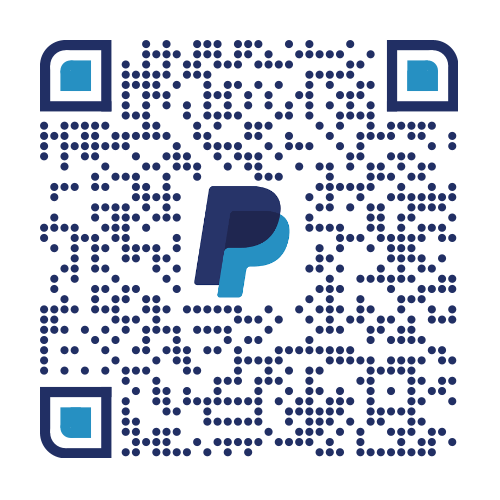
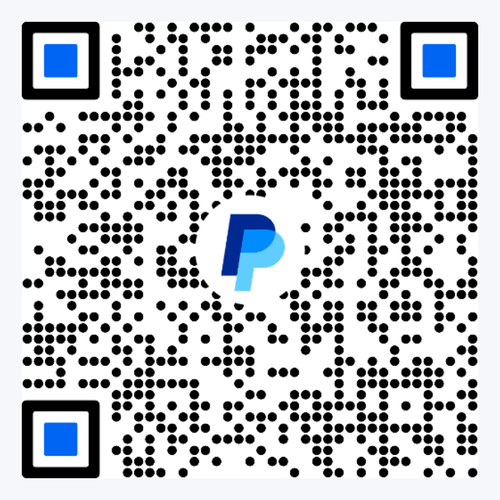
Update the PayPal "Buy me a coffee" QR code and link
The previous QR code was invalid.

diff --git a/setting/index.js b/setting/index.js
@@ -17,7 +17,7 @@ const smallButton = { fontSize: '13px', borderRadius: '16px', padding: '0 14px',
 
 // Buy me a coffee: PayPal QR (hosted on the course website) and its link
 const COFFEE_QR = 'https://course-mapper.watchgps.workers.dev/coffee-qr.png'
-const COFFEE_LINK = 'https://www.paypal.com/qrcodes/managed/b1067aff-292a-4d6b-a501-b331ef7057b6?utm_source=consweb_more'
+const COFFEE_LINK = 'https://www.paypal.com/qrcodes/p2pqrc/H52JSEGSFXPPW'
 
 // Text renders inline by default; blocks make each piece its own line
 function text(content, style = {}) {

diff --git a/README.md b/README.md
@@ -61,7 +61,7 @@ See `utils/course-format.js`.
 
 Golf Tracker and the course website are free, with no adverts. If they help
 your game, you can say thanks with a coffee: scan the code with your phone or
-the PayPal app, or [open it in PayPal](https://www.paypal.com/qrcodes/managed/b1067aff-292a-4d6b-a501-b331ef7057b6?utm_source=consweb_more).
+the PayPal app, or [open it in PayPal](https://www.paypal.com/qrcodes/p2pqrc/H52JSEGSFXPPW).
 
 <img src="docs/buy-me-a-coffee.png" width="200" alt="PayPal QR code to buy me a coffee">
 
